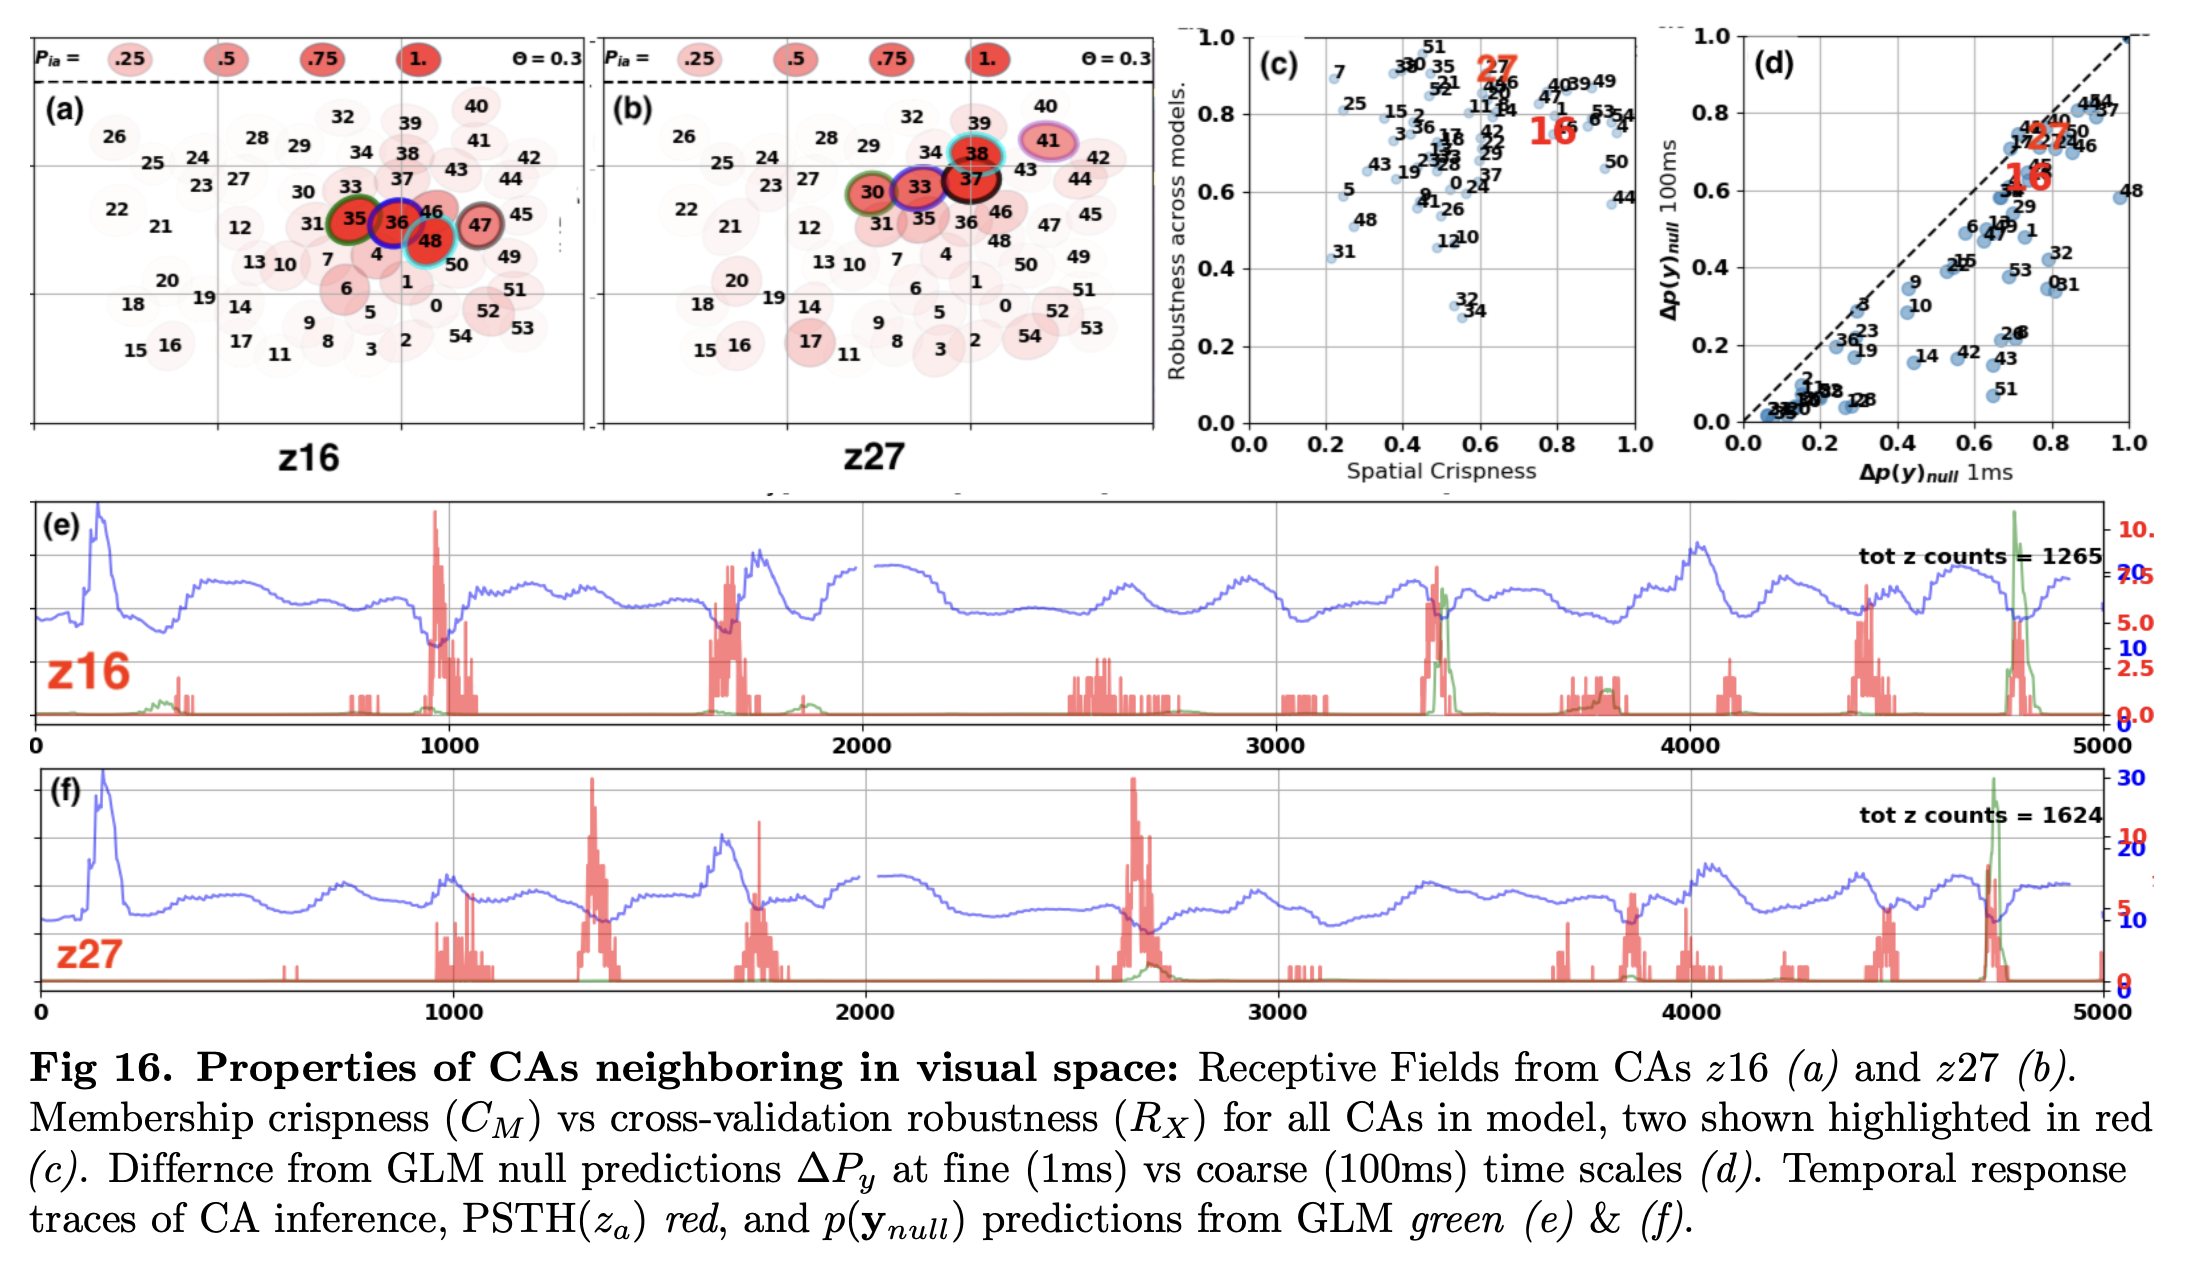
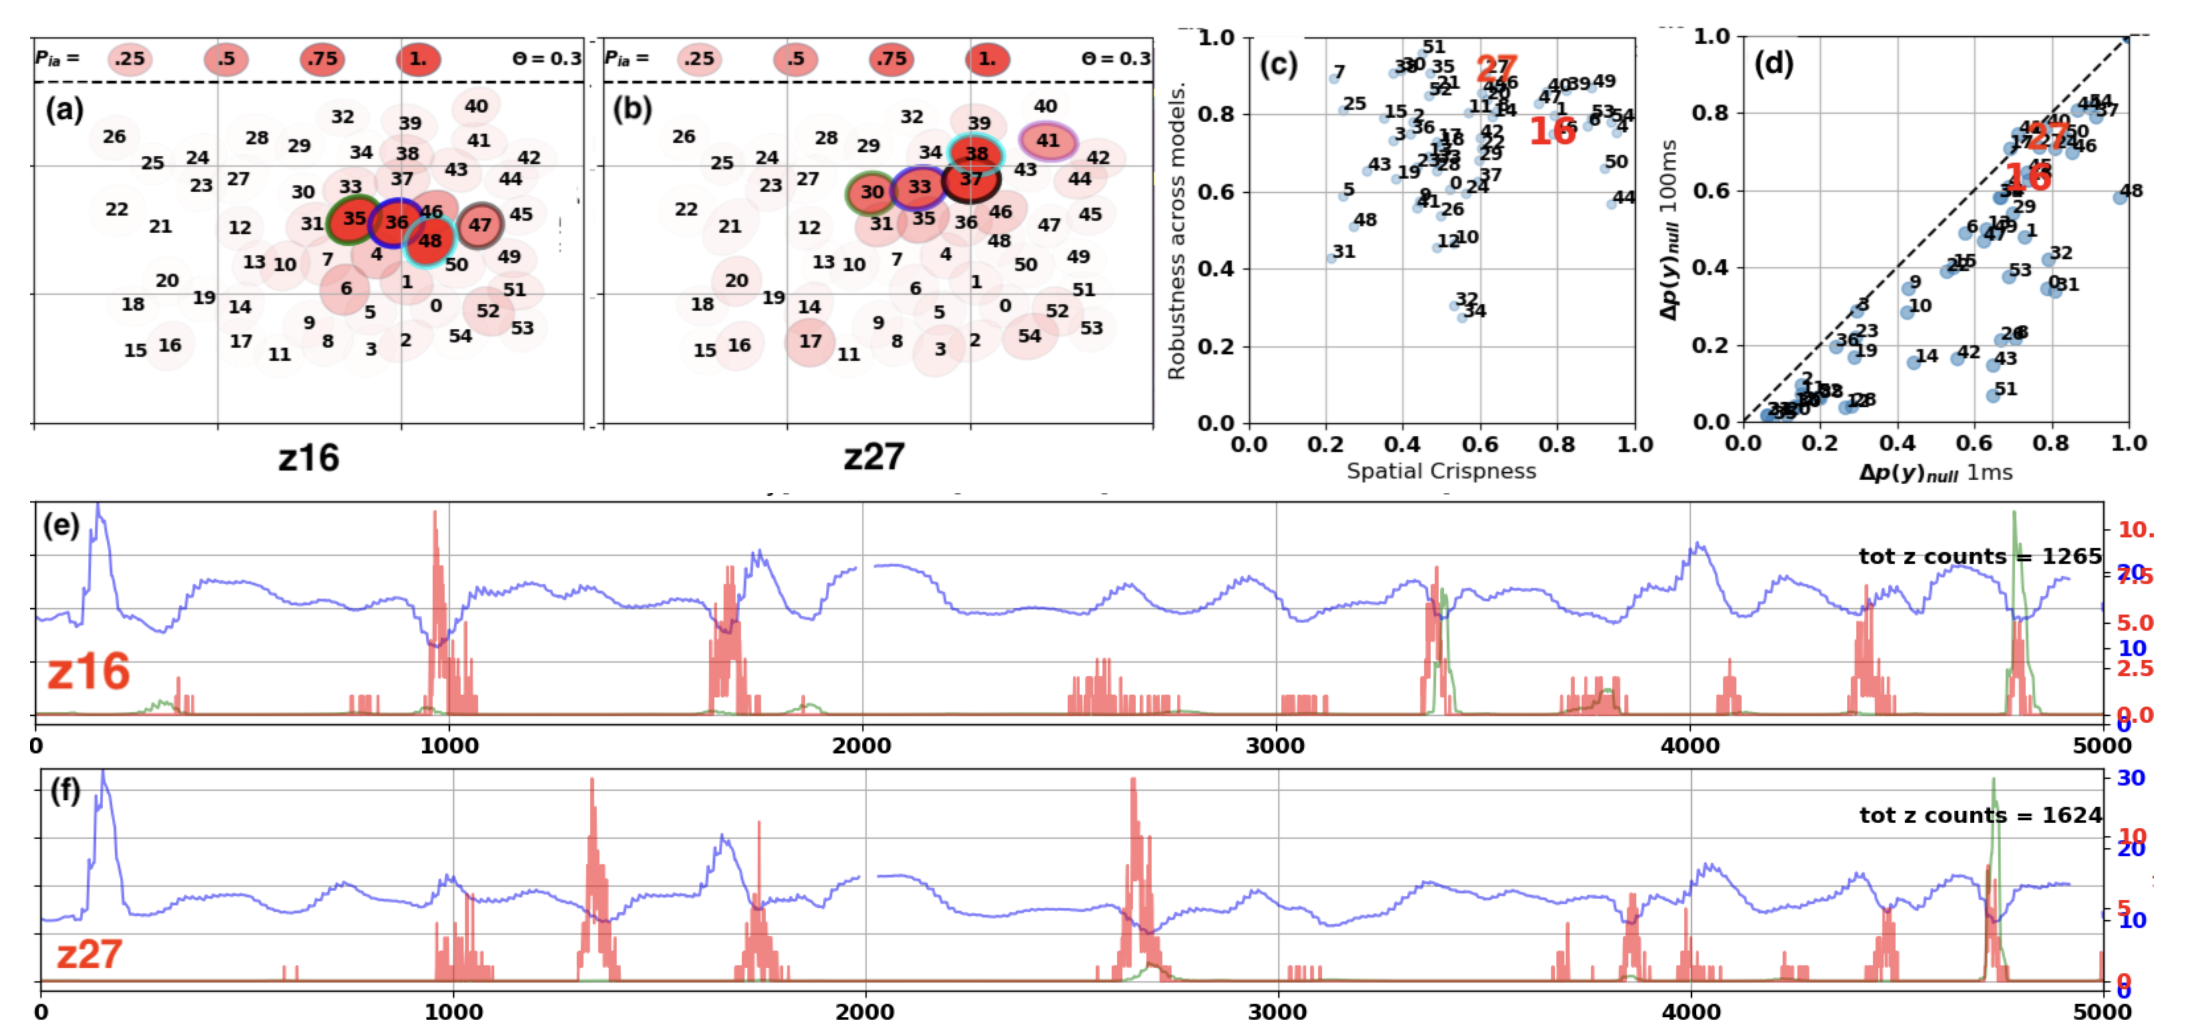
getting rid of fig caption

Changed region(s): [[0.0, 0.0, 0.9927, 0.9894]]

diff --git a/_portfolio/portfolio-2.html b/_portfolio/portfolio-2.html
@@ -274,7 +274,7 @@ These two cell assemblies seem to form roughly parallel horizontal lines. Their 
   </figure>
 
   <figure style="width: 49%;">
-    <img src="/images/CA_RFs_wZs.jpg" alt="Image" style="width: 100%; height: 70%">
+    <img src="/images/CA_RFs_wZs.jpg" alt="Image" style="width: 90%; height: 60%">
     <figcaption><strong>d)</strong> RFs for cells in CAs z16 (green) & z27 (blue)</figcaption>
   </figure>
 
